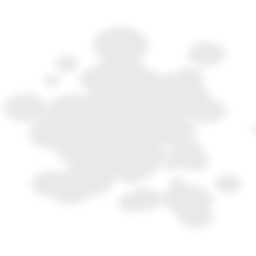
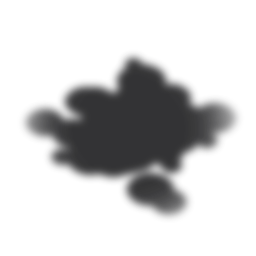
Boden: Plattenraster als Hauptschicht, dunkler, sichtbare Decals, schneller

Changed region(s): [[0.0938, 0.2188, 0.9375, 0.875]]

diff --git a/tools/generate_arena_decals.py b/tools/generate_arena_decals.py
@@ -1,30 +1,99 @@
-from PIL import Image, ImageDraw, ImageFilter
+"""Reproducible floor decals and floor mask for the arena (own work, CC0).
+
+Run: python tools/generate_arena_decals.py   (needs Pillow)
+"""
+from PIL import Image, ImageDraw, ImageFilter
 import random
 from pathlib import Path
+
 out = Path(__file__).resolve().parents[1] / 'assets' / 'arena'
 out.mkdir(parents=True, exist_ok=True)
-for kind in ('oil', 'soot', 'puddle', 'scratch', 'warning'):
-    r = random.Random(117 + len(kind))
-    im = Image.new('RGBA', (256,256))
-    d = ImageDraw.Draw(im)
-    if kind in ('oil', 'soot', 'puddle'):
-        for _ in range(100):
-            x, y = r.gauss(128, 45), r.gauss(128, 35)
-            rad = r.randrange(6, 28)
-            color = {'oil': (18,20,19,24), 'soot': (25,24,22,18), 'puddle': (29,33,34,26)}[kind]
-            d.ellipse((x-rad,y-rad*.65,x+rad,y+rad*.65), fill=color)
-        im = im.filter(ImageFilter.GaussianBlur(4))
-    elif kind == 'scratch':
-        for _ in range(24):
-            x, y = r.randrange(20,220), r.randrange(30,225)
-            d.line((x,y,x+r.randrange(8,45),y+r.randrange(-4,5)), fill=(110,105,91, r.randrange(20,75)), width=1)
-    else:
-        d.rectangle((12,82,244,174), fill=(64,57,39,70))
-        for x in range(-180,350,55):
-            d.polygon([(x,82),(x+26,82),(x+92,174),(x+66,174)], fill=(115,105,68,80))
-        for _ in range(400):
-            x,y=r.randrange(256),r.randrange(256)
-            d.rectangle((x,y,x+r.randrange(1,5),y+r.randrange(1,4)), fill=(0,0,0,0))
+SIZE = 256
+
+
+def blob_alpha(r, count, spread, rad, aspect, peak, blur):
+    """Soft irregular stain as an alpha mask."""
+    mask = Image.new('L', (SIZE, SIZE), 0)
+    d = ImageDraw.Draw(mask)
+    for _ in range(count):
+        x, y = r.gauss(128, spread[0]), r.gauss(128, spread[1])
+        rr = r.randrange(*rad)
+        d.ellipse((x - rr, y - rr * aspect, x + rr, y + rr * aspect), fill=peak)
+    mask = mask.filter(ImageFilter.GaussianBlur(blur))
+    # fade to zero at the borders so the decal box never shows an edge
+    edge = Image.new('L', (SIZE, SIZE), 0)
+    ImageDraw.Draw(edge).ellipse((14, 14, SIZE - 14, SIZE - 14), fill=255)
+    edge = edge.filter(ImageFilter.GaussianBlur(22))
+    return Image.composite(mask, Image.new('L', (SIZE, SIZE), 0), edge).point(lambda v: v)
+
+
+def stain(kind, color, count, spread, rad, aspect, peak, blur, seed):
+    r = random.Random(seed)
+    alpha = blob_alpha(r, count, spread, rad, aspect, peak, blur)
+    # multiply with the edge falloff
+    edge = Image.new('L', (SIZE, SIZE), 0)
+    ImageDraw.Draw(edge).ellipse((10, 10, SIZE - 10, SIZE - 10), fill=255)
+    edge = edge.filter(ImageFilter.GaussianBlur(24))
+    alpha = Image.eval(alpha, lambda v: v)
+    px, ex = alpha.load(), edge.load()
+    for y in range(SIZE):
+        for x in range(SIZE):
+            px[x, y] = px[x, y] * ex[x, y] // 255
+    im = Image.new('RGBA', (SIZE, SIZE), color + (0,))
+    im.putalpha(alpha)
     im.save(out / (kind + '.png'))
-# Ambient occlusion, roughness and metallic for reflected puddles.
-Image.new('RGB',(16,16),(255,35,0)).save(out / 'puddle_orm.png')
+
+
+# dark, low contrast: oil and soot darken the plates, the puddle mirrors the sky
+stain('oil', (13, 13, 15), 60, (34, 26), (8, 26), 0.7, 215, 4, 1)
+stain('soot', (18, 17, 15), 90, (46, 36), (6, 22), 0.75, 190, 5, 2)
+stain('puddle', (40, 46, 54), 40, (26, 18), (14, 34), 0.62, 245, 3, 3)
+
+# scratches: worn bright metal lines
+r = random.Random(4)
+im = Image.new('RGBA', (SIZE, SIZE), (0, 0, 0, 0))
+d = ImageDraw.Draw(im)
+for _ in range(34):
+    x, y = r.randrange(10, 200), r.randrange(30, 225)
+    d.line((x, y, x + r.randrange(14, 70), y + r.randrange(-6, 7)), fill=(150, 146, 134, r.randrange(90, 190)), width=r.choice((1, 1, 2)))
+im.save(out / 'scratch.png')
+
+# warning marking: diagonal muted yellow stripes between two worn bars, chipped
+r = random.Random(5)
+im = Image.new('RGBA', (SIZE, SIZE), (0, 0, 0, 0))
+d = ImageDraw.Draw(im)
+d.rectangle((0, 70, SIZE, 186), fill=(22, 21, 19, 190))
+for x in range(-180, 360, 64):
+    d.polygon([(x, 70), (x + 32, 70), (x + 96, 186), (x + 64, 186)], fill=(104, 86, 40, 200))
+chip = Image.new('L', (SIZE, SIZE), 255)
+cd = ImageDraw.Draw(chip)
+for _ in range(900):
+    x, y = r.randrange(SIZE), r.randrange(SIZE)
+    cd.rectangle((x, y, x + r.randrange(1, 7), y + r.randrange(1, 5)), fill=r.choice((0, 0, 90)))
+a = im.getchannel('A')
+px, cp = a.load(), chip.load()
+for y in range(SIZE):
+    for x in range(SIZE):
+        px[x, y] = px[x, y] * cp[x, y] // 255
+im.putalpha(a)
+im.save(out / 'warning.png')
+
+# ORM: R occlusion, G roughness, B metallic. Puddle is a near-mirror, oil a glossy film.
+Image.new('RGB', (16, 16), (255, 14, 255)).save(out / 'puddle_orm.png')
+Image.new('RGB', (16, 16), (255, 70, 90)).save(out / 'oil_orm.png')
+
+# One reproducible low-frequency mask; channels decorrelate wear, tone and rust.
+r = random.Random(8125)
+channels = []
+for width, height in ((20, 14), (9, 7), (35, 25)):
+    cells = [r.randrange(256) for _ in range(width * height)]
+    small = Image.new('L', (width, height))
+    small.putdata(cells)
+    # tile 3x3 before filtering so the mask repeats without a seam, then crop the middle
+    tiled = Image.new('L', (width * 3, height * 3))
+    for ix in range(3):
+        for iy in range(3):
+            tiled.paste(small, (ix * width, iy * height))
+    big = tiled.resize((768, 768), Image.Resampling.BICUBIC).filter(ImageFilter.GaussianBlur(2))
+    channels.append(big.crop((256, 256, 512, 512)))
+Image.merge('RGB', tuple(channels)).save(out / 'floor_mask.png')
